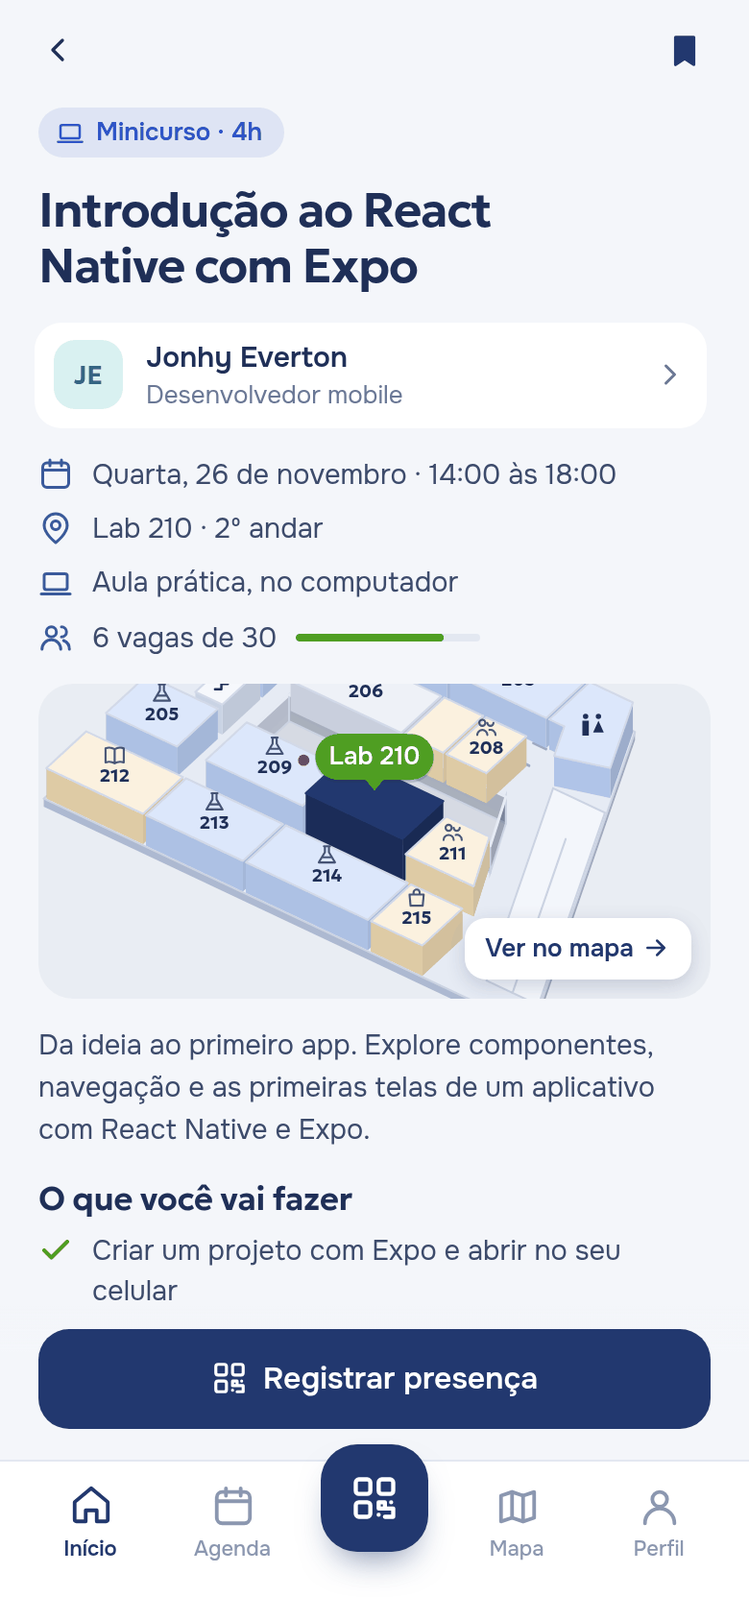
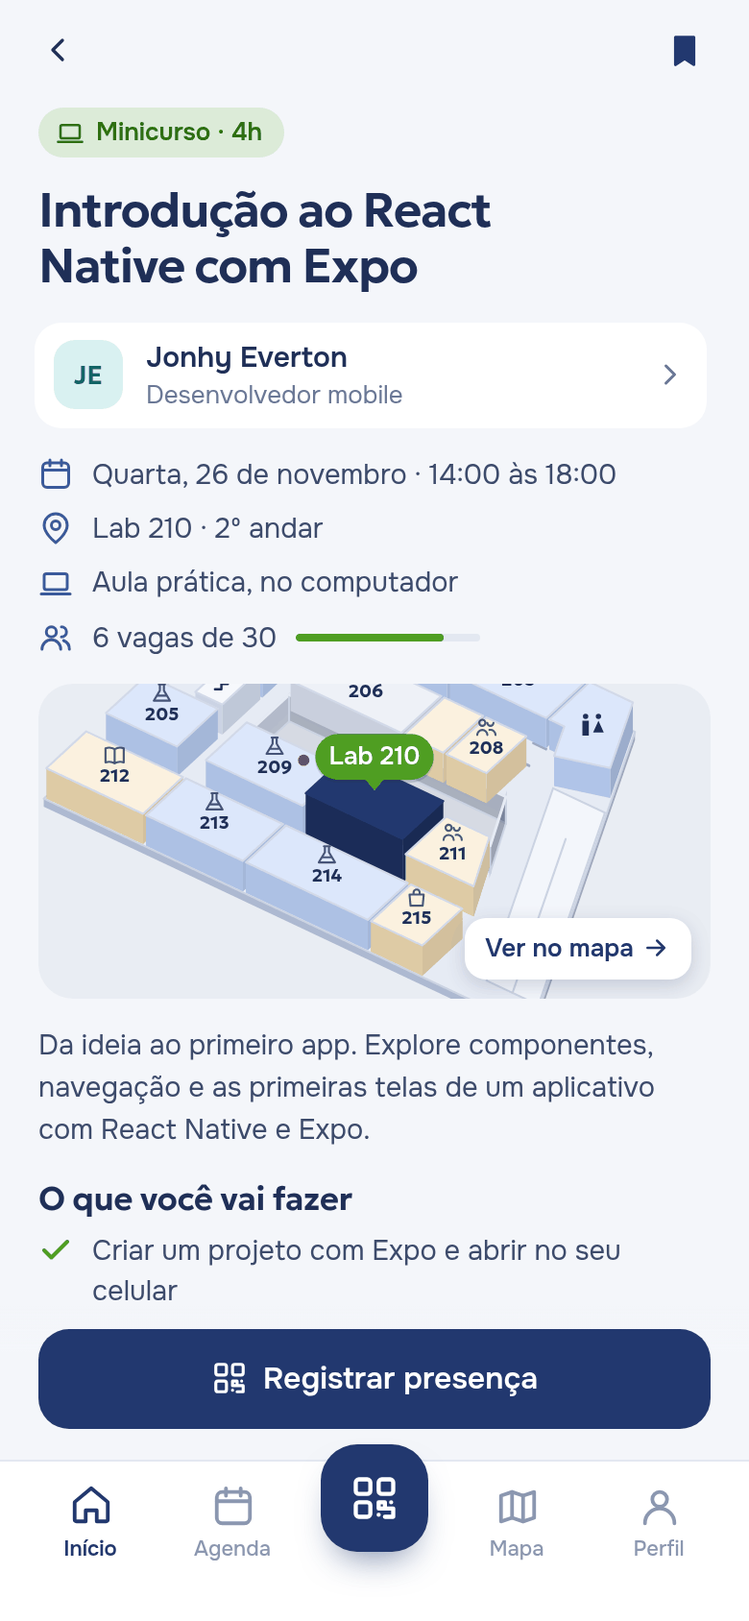
Agenda: cards limpos no padrão dos apps de evento
- Hexágono com o ícone do tipo no lugar do texto; uma linha só com quem e onde
- Cores dos hexágonos do logo do ETAL para cada tipo
- Selo só para vagas acabando ou esgotadas
- Campeonatos com a arte de cada jogo (banner do FIFA)

Changed region(s): [[0.0308, 0.0616, 0.4, 0.1232], [0.0923, 0.2156, 0.1231, 0.2464]]

diff --git a/index.html b/index.html
@@ -1889,47 +1889,76 @@ html.passeio-cheio .statusbar{height:0!important;padding:0}
   .overlay{top:env(safe-area-inset-top,0px)}
 }
 
-/* ---- Tipos de atividade (TIPOS em app.js): cada um com cor, card na agenda e bloco no detalhe ---- */
-.f-mesa,.tp-mesa{--tp:#d0651f}
-.f-camp,.tp-camp{--tp:#d6332c}
-.ag-kind .i{width:13px;height:13px;stroke-width:2.2}
-.ag-who{display:flex;align-items:center;gap:9px;margin-top:8px}
-.ag-who .ava{width:30px;height:30px;font-size:11px;flex:none}
-.ag-who b{display:block;font-size:13px;font-weight:600;color:var(--ink)}
-.ag-who small{display:block;font-size:12px;color:var(--muted)}
-.ag li.ag-pal,.ag li.ag-mesa{background:linear-gradient(135deg,color-mix(in srgb,var(--tp) 9%,var(--card)),var(--card) 62%)}
-.ag-rodada{display:flex;flex:none}
-.ag-rodada .ava{width:26px;height:26px;font-size:9.5px;letter-spacing:-.02em;margin-left:-5px;box-shadow:0 0 0 2px var(--card)}
-.ag-rodada .ava:first-child{margin-left:0}
-.ag-pratica{display:flex;align-items:center;flex-wrap:wrap;gap:6px 9px;margin-top:8px;font-size:12px;color:var(--muted)}
-.ag-pratica .seats{flex:0 0 56px;margin:0}
-.ag-pratica em{font-style:normal;display:inline-flex;align-items:center;gap:4px;font-weight:600;color:var(--tp);background:color-mix(in srgb,var(--tp) 11%,transparent);padding:2px 8px;border-radius:999px}
-.ag-pratica em .i{width:13px;height:13px}
-.ag li.ag-camp{align-items:center;gap:12px;padding:10px 12px 10px 10px;color:#fff;background:linear-gradient(120deg,#1a1d2e,#43151f);box-shadow:none}
-.ag li.ag-camp.mine{box-shadow:0 0 0 2px var(--tp)}
-.ag li.ag-camp.fifa{background:linear-gradient(120deg,#0b2a4a,#0e5a3c)}
-.ag-camp .ag-arte{width:56px;height:56px;border-radius:12px;background:rgba(255,255,255,.08);display:grid;place-items:center;flex:none;overflow:hidden}
-.ag-camp .ag-arte img{width:50px;height:auto}
-.ag-camp .ag-arte .i{width:26px;height:26px;color:#ffd27a}
-.ag-camp .ag-kind{color:#ffb4a8}
-.ag-camp.fifa .ag-kind{color:#9fe3b8}
-.ag-camp h4{color:#fff}
-.ag-camp p{color:rgba(255,255,255,.74)}
-.ag-camp .card-chev{color:rgba(255,255,255,.7);flex:none}
-.kind-tp{display:inline-flex;align-items:center;gap:6px;align-self:flex-start;color:var(--tp)!important;background:color-mix(in srgb,var(--tp) 11%,transparent);padding:4px 11px 4px 9px;border-radius:999px}
+/* ---- Tipos de atividade (TIPOS em app.js) ----
+   Cores dos hexágonos do logo do ETAL: azul, amarelo, verde e vermelho. --tp pinta o hexágono; --tp-ink é a mesma
+   cor escurecida para texto sobre fundo claro (contraste). Nada de cor solta fora daqui. */
+.tp-pal,.f-pal{--tp:#5d86dc;--tp-ink:#2f55b0}
+.tp-mesa,.f-mesa{--tp:#f2b230;--tp-ink:#8a5a00;--tp-on:#3d2a00}
+.tp-mini,.tp-ofi,.f-mini{--tp:#65b32e;--tp-ink:#2f6f12}
+.tp-camp,.f-camp{--tp:#d6332c;--tp-ink:#b02a24}
+.tp-out{--tp:#8793ab;--tp-ink:#5a6680}
+.ag-chips button i{background:var(--tp);border-radius:2px;width:9px;height:9px;clip-path:polygon(50% 0,100% 25%,100% 75%,50% 100%,0 75%,0 25%)}
+
+/* card de sessão */
+.ag li.ses{display:flex;align-items:flex-start;gap:12px;padding:13px 6px 13px 13px;background:var(--card);box-shadow:none;border-radius:calc(16px*var(--rk,1))}
+.ag li.ses.mine{box-shadow:0 0 0 1.5px color-mix(in srgb,var(--navy) 30%,transparent)}
+.ses-hex{position:relative;flex:none;width:34px;height:34px;display:grid;place-items:center;margin-top:1px}
+.ses-hex svg{position:absolute;inset:0;width:100%;height:100%;fill:var(--tp)}
+.ses-hex .i{position:relative;width:16px;height:16px;color:var(--tp-on,#fff);stroke-width:2.2}
+.ses-tx{flex:1;min-width:0;display:flex;flex-direction:column;gap:7px}
+.ag .ses h4{margin:0;font:600 15.5px/1.28 var(--display);letter-spacing:-.01em;display:-webkit-box;-webkit-line-clamp:2;-webkit-box-orient:vertical;overflow:hidden}
+.ag .ses-meta{display:flex;align-items:center;gap:7px;margin:0;font-size:12.5px;color:var(--muted);min-width:0}
+.ses-meta .ava{width:22px;height:22px;font-size:9px;border-radius:7px;flex:none}
+.ses-quem{white-space:nowrap;overflow:hidden;text-overflow:ellipsis;color:var(--ink-2);font-weight:500}
+.ses-onde{flex:0 1 auto;max-width:55%;min-width:0;white-space:nowrap;overflow:hidden;text-overflow:ellipsis}
+.ses-quem{flex:0 100 auto;min-width:3.5em}
+.ag-trilho .slot{grid-template-columns:44px minmax(0,1fr)}
+.ag li.ses,.ag li.ses-camp{min-width:0}
+.ses-quem + .ses-onde::before{content:"·";margin-right:6px}
+.ses-rostos{display:flex;flex:none}
+.ses-rostos .ava{margin-left:-6px;box-shadow:0 0 0 2px var(--card)}
+.ses-rostos .ava:first-child{margin-left:0}
+.ses-selo{align-self:flex-start;display:inline-flex;align-items:center;gap:5px;font-size:11px;font-weight:700;padding:2px 8px;border-radius:999px}
+.ses-selo.agora{background:var(--green-50);color:var(--green-ink)}
+.ses-selo.agora i{width:6px;height:6px;border-radius:50%;background:currentColor;animation:sesPulso 1.6s ease-in-out infinite}
+.ses-selo.pouca{background:#fff1d6;color:#8a5200}
+.ses-selo.cheio{background:var(--line);color:var(--muted)}
+@keyframes sesPulso{50%{opacity:.25}}
+@media(prefers-reduced-motion:reduce){.ses-selo.agora i{animation:none}}
+.ag .ses .bm{margin-top:-4px}
+
+/* campeonato: a arte do jogo é o card */
+.ag li.ses-camp{position:relative;display:block;height:104px;padding:0;border-radius:calc(16px*var(--rk,1));overflow:hidden;color:#fff;isolation:isolate;box-shadow:none;cursor:pointer}
+.ses-camp .art{position:absolute;inset:0;width:100%;height:100%;object-fit:cover;z-index:-1}
+.ses-camp .art-scrim{background:linear-gradient(90deg,rgba(6,8,20,.72) 0%,rgba(6,8,20,.15) 70%)}
+.ses-camp-tx{position:absolute;left:14px;right:14px;top:12px;bottom:12px;display:flex;flex-direction:column;justify-content:space-between;align-items:flex-start}
+.ses-camp-tx small{margin-top:auto}
+.ses-camp-tx .p-logo{height:30px;width:auto;max-width:132px;object-fit:contain;object-position:left}
+.ses-camp-tx .p-name{font:800 24px/1 var(--display);letter-spacing:-.02em}
+.ses-camp-tx small{font-size:12px;font-weight:600;opacity:.9}
+.ses-camp-chip{position:absolute;right:10px;top:10px}
+.ses-camp-chip .t-chip{font-size:11px;padding:4px 9px}
+
+/* pausas (credenciamento, intervalo, almoço): uma linha discreta */
+.ag li.ses-pausa{display:flex;align-items:baseline;gap:8px;padding:4px 4px 4px 2px;background:none;box-shadow:none;font-size:13.5px;color:var(--ink-2)}
+.ses-pausa small{font-size:12px;color:var(--muted)}
+
+/* detalhe da atividade */
+.kind-tp{display:inline-flex;align-items:center;gap:6px;align-self:flex-start;color:var(--tp-ink)!important;background:color-mix(in srgb,var(--tp) 16%,transparent);padding:4px 11px 4px 9px;border-radius:999px}
 .kind-tp .i{width:15px;height:15px}
-.teacher.quem-fala{padding:14px;background:linear-gradient(135deg,color-mix(in srgb,#8a4fd0 12%,var(--card)),var(--card))}
-.teacher.quem-fala small:first-child{font-size:10.5px;text-transform:uppercase;letter-spacing:.07em;font-weight:700;color:#8a4fd0}
+.teacher.quem-fala{padding:14px;background:var(--card);box-shadow:inset 0 0 0 1.5px color-mix(in srgb,#5d86dc 35%,transparent)}
+.teacher.quem-fala small:first-child{font-size:10.5px;text-transform:uppercase;letter-spacing:.07em;font-weight:700;color:#2f55b0}
 .teacher.quem-fala b{display:block;font-size:17px}
 .roda ul{list-style:none;margin:8px 0 0;padding:0;display:grid;gap:8px}
 .roda li{display:flex;align-items:center;gap:10px;background:var(--card);padding:9px 11px;border-radius:calc(14px*var(--rk,1))}
-.roda li:first-child{box-shadow:inset 3px 0 0 #d0651f}
+.roda li:first-child{box-shadow:inset 3px 0 0 #f2b230}
 .roda b{display:block;font-size:14px}
 .roda small{display:block;font-size:12.5px;color:var(--muted)}
-.levar{display:flex;gap:11px;align-items:flex-start;padding:12px 14px;border-radius:calc(14px*var(--rk,1));background:color-mix(in srgb,#2f55c8 8%,var(--card));color:var(--ink-2)}
-.levar .i{width:20px;height:20px;color:#2f55c8;flex:none;margin-top:2px}
+.levar{display:flex;gap:11px;align-items:flex-start;padding:12px 14px;border-radius:calc(14px*var(--rk,1));background:color-mix(in srgb,#65b32e 10%,var(--card));color:var(--ink-2)}
+.levar .i{width:20px;height:20px;color:#2f6f12;flex:none;margin-top:2px}
 .levar b{display:block;font-size:14px;color:var(--ink)}
 .levar small{font-size:13px}
+@media (prefers-color-scheme:dark){.ses-selo.pouca{background:#3a2c12;color:#ffd27a}}
 
 </style>
 <script>/* config.js */
@@ -5765,17 +5794,24 @@ window.DATA.placeOrder.splice(1, 0, 'obelisco');
 /* Cada tipo tem a sua cor (a mesma do filtro) e a fileira é curta: tipo e até que horas, título, quem e onde, vagas. */
     const tp = (k) => (TIPOS_G.has(k) ? k : 'out');
     const vagas = (s) => (!s.seats ? '' : s.taken >= s.seats ? '<span class="ag-vagas full">Lotado</span>' : `<span class="ag-vagas ${s.seats - s.taken <= 5 ? 'low' : ''}">${s.seats - s.taken} ${s.seats - s.taken === 1 ? 'vaga' : 'vagas'}</span>`);
-    /* um card por tipo: palestra destaca quem fala; mesa, quem conversa; minicurso e oficina, vagas e o que levar;
-       campeonato abre a chave, com a arte do jogo */
+    /* Card no padrão dos apps de evento (Whova, Sched, Google I/O): título forte, uma linha só com quem e onde, o
+       marcador à direita. O tipo aparece no hexágono colorido (as cores são as dos hexágonos do logo do ETAL), não em
+       texto; a legenda das cores são os filtros logo acima. Vagas só aparecem quando acabando ou esgotadas. */
     const bm = (s) => `<button class="bm ${S.saved.has(s.id) ? 'on' : ''}" data-act="save" data-id="${s.id}" aria-label="${S.saved.has(s.id) ? 'Remover dos salvos' : 'Salvar'}">${ic('bookmark')}</button>`;
-    const kind = (s) => { const t = tipoDe(s); return `<span class="ag-kind">${ic(t.icon)}${s.type}${duracao(s) ? ` · ${duracao(s)}` : ''}</span>`; };
-    const cls = (s) => `tp-${tipoDe(s).k} ${S.saved.has(s.id) ? 'mine' : ''} ${isNow(s) ? 'now' : ''}`;
+    const hexa = (s) => `<span class="ses-hex" role="img" aria-label="${s.type}"><svg viewBox="-20 -20 40 40" aria-hidden="true"><path d="M0-18.5 16-9.25v18.5L0 18.5-16 9.25v-18.5Z"/></svg>${ic(tipoDe(s).icon)}</span>`;
+    const selo = (s) => { /* "agora" já aparece na linha do tempo */ if (!s.seats) return ''; const n = s.seats - s.taken; return n <= 0 ? '<span class="ses-selo cheio">Esgotado</span>' : n <= 5 ? `<span class="ses-selo pouca">${n === 1 ? 'Última vaga' : `Últimas ${n}`}</span>` : ''; };
+    const rosto = (s) => { const ps = pessoasDe(s); return ps.length > 1 ? `<span class="ses-rostos">${ps.slice(0, 3).map((p) => spAv(p)).join('')}</span>` : spAv(s); };
+    const card = (s, quem) => `<li class="ses tp-${tipoDe(s).k} ${S.saved.has(s.id) ? 'mine' : ''}" ${goOf(s)}>${hexa(s)}<div class="ses-tx"><h4>${s.title}</h4><p class="ses-meta">${rosto(s)}${quem ? `<span class="ses-quem">${quem}</span>` : ''}<span class="ses-onde">${s.room}</span></p>${selo(s)}</div>${bm(s)}</li>`;
+    /* selo curto do campeonato: só o que importa para decidir (vagas, ao vivo, fim) */
+    const chipCurto = (stt) => { const [k, l] = window.TOUR.status(stt); const curto = (l.match(/\d+ vagas?/) || [l.split(' · ')[0]])[0]; return `<span class="t-chip ${k}">${k === 'live' ? '<i></i>' : ''}${curto}</span>`; };
     const CARDS = {
-      pal: (s) => `<li class="${cls(s)} ag-pal" ${goOf(s)}><div class="ag-tx">${kind(s)}<h4>${s.title}</h4><div class="ag-who">${spAv(s)}<span><b>${s.speakerShort}</b><small>${s.role} · ${s.room}</small></span></div></div><div class="ag-side">${bm(s)}${vagas(s)}</div></li>`,
-      mesa: (s) => { const ps = pessoasDe(s); return `<li class="${cls(s)} ag-mesa" ${goOf(s)}><div class="ag-tx">${kind(s)}<h4>${s.title}</h4><div class="ag-who"><span class="ag-rodada">${ps.slice(0, 4).map((p) => spAv(p)).join('')}</span><span><b>${s.speakerShort.split(' ')[0]} e mais ${ps.length - 1}</b><small>Mediação · ${s.room}</small></span></div></div><div class="ag-side">${bm(s)}${vagas(s)}</div></li>`; },
-      mini: (s) => `<li class="${cls(s)} ag-mini" ${goOf(s)}><div class="ag-tx">${kind(s)}<h4>${s.title}</h4><p>${s.speakerShort} · ${s.room}</p><div class="ag-pratica">${seatBar(s)}<span>${seatLine(s)}</span>${leva(s) ? `<em>${ic('laptop')}Leve notebook</em>` : ''}</div></div><div class="ag-side">${bm(s)}</div></li>`,
-      camp: (s) => { const t = D.tournaments.find((x) => x.id === s.tournament); if (!t) return CARDS.out(s); const n = tourSt(t).players.filter(Boolean).length; return `<li class="${cls(s)} ag-camp ${t.theme}" ${goOf(s)}><span class="ag-arte">${t.logo ? `<img src="${t.logo}" alt="">` : ic('trophy')}</span><div class="ag-tx">${kind(s)}<h4>${t.name}</h4><p>${t.format} · ${n} na chave · ${s.room}</p></div>${ic('chev', 'i card-chev')}</li>`; },
-      out: (s) => `<li class="ag-stop" ${goOf(s)}><div class="ag-tx"><h4>${s.title}</h4><p>${s.room}</p></div>${ic('chev', 'i card-chev')}</li>`,
+      pal: (s) => card(s, s.speakerShort),
+      mesa: (s) => card(s, ''), // os rostos já dizem quem conversa
+      mini: (s) => card(s, s.speakerShort),
+      /* campeonato: a arte do jogo (o banner do FIFA, a do Mortal Kombat) é o card */
+      camp: (s) => { const t = D.tournaments.find((x) => x.id === s.tournament); if (!t) return CARDS.out(s); const stt = tourSt(t); const me = tourMine(stt) >= 0;
+        return `<li class="ses-camp ${t.theme}" ${goOf(s)}>${gameArt(t)}<span class="ses-camp-tx">${titleOf(t)}<small>${s.room} · ${t.format}</small></span><span class="ses-camp-chip">${me ? `<span class="t-chip me">${ic('check')}Na chave</span>` : chipCurto(stt)}</span></li>`; },
+      out: (s) => `<li class="ses-pausa" ${goOf(s)}><span>${s.title}</span><small>${s.room}</small></li>`,
     };
     const row = (s) => (CARDS[tipoDe(s).g] || CARDS.out)(s);
     const agora = list.filter(isNow).length; const meus = D.sessions.filter((x) => x.day === day && S.saved.has(x.id)).length;

diff --git a/prototipo/app.css b/prototipo/app.css
@@ -1873,44 +1873,73 @@ html.passeio-cheio .statusbar{height:0!important;padding:0}
   .overlay{top:env(safe-area-inset-top,0px)}
 }
 
-/* ---- Tipos de atividade (TIPOS em app.js): cada um com cor, card na agenda e bloco no detalhe ---- */
-.f-mesa,.tp-mesa{--tp:#d0651f}
-.f-camp,.tp-camp{--tp:#d6332c}
-.ag-kind .i{width:13px;height:13px;stroke-width:2.2}
-.ag-who{display:flex;align-items:center;gap:9px;margin-top:8px}
-.ag-who .ava{width:30px;height:30px;font-size:11px;flex:none}
-.ag-who b{display:block;font-size:13px;font-weight:600;color:var(--ink)}
-.ag-who small{display:block;font-size:12px;color:var(--muted)}
-.ag li.ag-pal,.ag li.ag-mesa{background:linear-gradient(135deg,color-mix(in srgb,var(--tp) 9%,var(--card)),var(--card) 62%)}
-.ag-rodada{display:flex;flex:none}
-.ag-rodada .ava{width:26px;height:26px;font-size:9.5px;letter-spacing:-.02em;margin-left:-5px;box-shadow:0 0 0 2px var(--card)}
-.ag-rodada .ava:first-child{margin-left:0}
-.ag-pratica{display:flex;align-items:center;flex-wrap:wrap;gap:6px 9px;margin-top:8px;font-size:12px;color:var(--muted)}
-.ag-pratica .seats{flex:0 0 56px;margin:0}
-.ag-pratica em{font-style:normal;display:inline-flex;align-items:center;gap:4px;font-weight:600;color:var(--tp);background:color-mix(in srgb,var(--tp) 11%,transparent);padding:2px 8px;border-radius:999px}
-.ag-pratica em .i{width:13px;height:13px}
-.ag li.ag-camp{align-items:center;gap:12px;padding:10px 12px 10px 10px;color:#fff;background:linear-gradient(120deg,#1a1d2e,#43151f);box-shadow:none}
-.ag li.ag-camp.mine{box-shadow:0 0 0 2px var(--tp)}
-.ag li.ag-camp.fifa{background:linear-gradient(120deg,#0b2a4a,#0e5a3c)}
-.ag-camp .ag-arte{width:56px;height:56px;border-radius:12px;background:rgba(255,255,255,.08);display:grid;place-items:center;flex:none;overflow:hidden}
-.ag-camp .ag-arte img{width:50px;height:auto}
-.ag-camp .ag-arte .i{width:26px;height:26px;color:#ffd27a}
-.ag-camp .ag-kind{color:#ffb4a8}
-.ag-camp.fifa .ag-kind{color:#9fe3b8}
-.ag-camp h4{color:#fff}
-.ag-camp p{color:rgba(255,255,255,.74)}
-.ag-camp .card-chev{color:rgba(255,255,255,.7);flex:none}
-.kind-tp{display:inline-flex;align-items:center;gap:6px;align-self:flex-start;color:var(--tp)!important;background:color-mix(in srgb,var(--tp) 11%,transparent);padding:4px 11px 4px 9px;border-radius:999px}
+/* ---- Tipos de atividade (TIPOS em app.js) ----
+   Cores dos hexágonos do logo do ETAL: azul, amarelo, verde e vermelho. --tp pinta o hexágono; --tp-ink é a mesma
+   cor escurecida para texto sobre fundo claro (contraste). Nada de cor solta fora daqui. */
+.tp-pal,.f-pal{--tp:#5d86dc;--tp-ink:#2f55b0}
+.tp-mesa,.f-mesa{--tp:#f2b230;--tp-ink:#8a5a00;--tp-on:#3d2a00}
+.tp-mini,.tp-ofi,.f-mini{--tp:#65b32e;--tp-ink:#2f6f12}
+.tp-camp,.f-camp{--tp:#d6332c;--tp-ink:#b02a24}
+.tp-out{--tp:#8793ab;--tp-ink:#5a6680}
+.ag-chips button i{background:var(--tp);border-radius:2px;width:9px;height:9px;clip-path:polygon(50% 0,100% 25%,100% 75%,50% 100%,0 75%,0 25%)}
+
+/* card de sessão */
+.ag li.ses{display:flex;align-items:flex-start;gap:12px;padding:13px 6px 13px 13px;background:var(--card);box-shadow:none;border-radius:calc(16px*var(--rk,1))}
+.ag li.ses.mine{box-shadow:0 0 0 1.5px color-mix(in srgb,var(--navy) 30%,transparent)}
+.ses-hex{position:relative;flex:none;width:34px;height:34px;display:grid;place-items:center;margin-top:1px}
+.ses-hex svg{position:absolute;inset:0;width:100%;height:100%;fill:var(--tp)}
+.ses-hex .i{position:relative;width:16px;height:16px;color:var(--tp-on,#fff);stroke-width:2.2}
+.ses-tx{flex:1;min-width:0;display:flex;flex-direction:column;gap:7px}
+.ag .ses h4{margin:0;font:600 15.5px/1.28 var(--display);letter-spacing:-.01em;display:-webkit-box;-webkit-line-clamp:2;-webkit-box-orient:vertical;overflow:hidden}
+.ag .ses-meta{display:flex;align-items:center;gap:7px;margin:0;font-size:12.5px;color:var(--muted);min-width:0}
+.ses-meta .ava{width:22px;height:22px;font-size:9px;border-radius:7px;flex:none}
+.ses-quem{white-space:nowrap;overflow:hidden;text-overflow:ellipsis;color:var(--ink-2);font-weight:500}
+.ses-onde{flex:0 1 auto;max-width:55%;min-width:0;white-space:nowrap;overflow:hidden;text-overflow:ellipsis}
+.ses-quem{flex:0 100 auto;min-width:3.5em}
+.ag-trilho .slot{grid-template-columns:44px minmax(0,1fr)}
+.ag li.ses,.ag li.ses-camp{min-width:0}
+.ses-quem + .ses-onde::before{content:"·";margin-right:6px}
+.ses-rostos{display:flex;flex:none}
+.ses-rostos .ava{margin-left:-6px;box-shadow:0 0 0 2px var(--card)}
+.ses-rostos .ava:first-child{margin-left:0}
+.ses-selo{align-self:flex-start;display:inline-flex;align-items:center;gap:5px;font-size:11px;font-weight:700;padding:2px 8px;border-radius:999px}
+.ses-selo.agora{background:var(--green-50);color:var(--green-ink)}
+.ses-selo.agora i{width:6px;height:6px;border-radius:50%;background:currentColor;animation:sesPulso 1.6s ease-in-out infinite}
+.ses-selo.pouca{background:#fff1d6;color:#8a5200}
+.ses-selo.cheio{background:var(--line);color:var(--muted)}
+@keyframes sesPulso{50%{opacity:.25}}
+@media(prefers-reduced-motion:reduce){.ses-selo.agora i{animation:none}}
+.ag .ses .bm{margin-top:-4px}
+
+/* campeonato: a arte do jogo é o card */
+.ag li.ses-camp{position:relative;display:block;height:104px;padding:0;border-radius:calc(16px*var(--rk,1));overflow:hidden;color:#fff;isolation:isolate;box-shadow:none;cursor:pointer}
+.ses-camp .art{position:absolute;inset:0;width:100%;height:100%;object-fit:cover;z-index:-1}
+.ses-camp .art-scrim{background:linear-gradient(90deg,rgba(6,8,20,.72) 0%,rgba(6,8,20,.15) 70%)}
+.ses-camp-tx{position:absolute;left:14px;right:14px;top:12px;bottom:12px;display:flex;flex-direction:column;justify-content:space-between;align-items:flex-start}
+.ses-camp-tx small{margin-top:auto}
+.ses-camp-tx .p-logo{height:30px;width:auto;max-width:132px;object-fit:contain;object-position:left}
+.ses-camp-tx .p-name{font:800 24px/1 var(--display);letter-spacing:-.02em}
+.ses-camp-tx small{font-size:12px;font-weight:600;opacity:.9}
+.ses-camp-chip{position:absolute;right:10px;top:10px}
+.ses-camp-chip .t-chip{font-size:11px;padding:4px 9px}
+
+/* pausas (credenciamento, intervalo, almoço): uma linha discreta */
+.ag li.ses-pausa{display:flex;align-items:baseline;gap:8px;padding:4px 4px 4px 2px;background:none;box-shadow:none;font-size:13.5px;color:var(--ink-2)}
+.ses-pausa small{font-size:12px;color:var(--muted)}
+
+/* detalhe da atividade */
+.kind-tp{display:inline-flex;align-items:center;gap:6px;align-self:flex-start;color:var(--tp-ink)!important;background:color-mix(in srgb,var(--tp) 16%,transparent);padding:4px 11px 4px 9px;border-radius:999px}
 .kind-tp .i{width:15px;height:15px}
-.teacher.quem-fala{padding:14px;background:linear-gradient(135deg,color-mix(in srgb,#8a4fd0 12%,var(--card)),var(--card))}
-.teacher.quem-fala small:first-child{font-size:10.5px;text-transform:uppercase;letter-spacing:.07em;font-weight:700;color:#8a4fd0}
+.teacher.quem-fala{padding:14px;background:var(--card);box-shadow:inset 0 0 0 1.5px color-mix(in srgb,#5d86dc 35%,transparent)}
+.teacher.quem-fala small:first-child{font-size:10.5px;text-transform:uppercase;letter-spacing:.07em;font-weight:700;color:#2f55b0}
 .teacher.quem-fala b{display:block;font-size:17px}
 .roda ul{list-style:none;margin:8px 0 0;padding:0;display:grid;gap:8px}
 .roda li{display:flex;align-items:center;gap:10px;background:var(--card);padding:9px 11px;border-radius:calc(14px*var(--rk,1))}
-.roda li:first-child{box-shadow:inset 3px 0 0 #d0651f}
+.roda li:first-child{box-shadow:inset 3px 0 0 #f2b230}
 .roda b{display:block;font-size:14px}
 .roda small{display:block;font-size:12.5px;color:var(--muted)}
-.levar{display:flex;gap:11px;align-items:flex-start;padding:12px 14px;border-radius:calc(14px*var(--rk,1));background:color-mix(in srgb,#2f55c8 8%,var(--card));color:var(--ink-2)}
-.levar .i{width:20px;height:20px;color:#2f55c8;flex:none;margin-top:2px}
+.levar{display:flex;gap:11px;align-items:flex-start;padding:12px 14px;border-radius:calc(14px*var(--rk,1));background:color-mix(in srgb,#65b32e 10%,var(--card));color:var(--ink-2)}
+.levar .i{width:20px;height:20px;color:#2f6f12;flex:none;margin-top:2px}
 .levar b{display:block;font-size:14px;color:var(--ink)}
 .levar small{font-size:13px}
+@media (prefers-color-scheme:dark){.ses-selo.pouca{background:#3a2c12;color:#ffd27a}}

diff --git a/prototipo/app.js b/prototipo/app.js
@@ -642,17 +642,24 @@
 /* Cada tipo tem a sua cor (a mesma do filtro) e a fileira é curta: tipo e até que horas, título, quem e onde, vagas. */
     const tp = (k) => (TIPOS_G.has(k) ? k : 'out');
     const vagas = (s) => (!s.seats ? '' : s.taken >= s.seats ? '<span class="ag-vagas full">Lotado</span>' : `<span class="ag-vagas ${s.seats - s.taken <= 5 ? 'low' : ''}">${s.seats - s.taken} ${s.seats - s.taken === 1 ? 'vaga' : 'vagas'}</span>`);
-    /* um card por tipo: palestra destaca quem fala; mesa, quem conversa; minicurso e oficina, vagas e o que levar;
-       campeonato abre a chave, com a arte do jogo */
+    /* Card no padrão dos apps de evento (Whova, Sched, Google I/O): título forte, uma linha só com quem e onde, o
+       marcador à direita. O tipo aparece no hexágono colorido (as cores são as dos hexágonos do logo do ETAL), não em
+       texto; a legenda das cores são os filtros logo acima. Vagas só aparecem quando acabando ou esgotadas. */
     const bm = (s) => `<button class="bm ${S.saved.has(s.id) ? 'on' : ''}" data-act="save" data-id="${s.id}" aria-label="${S.saved.has(s.id) ? 'Remover dos salvos' : 'Salvar'}">${ic('bookmark')}</button>`;
-    const kind = (s) => { const t = tipoDe(s); return `<span class="ag-kind">${ic(t.icon)}${s.type}${duracao(s) ? ` · ${duracao(s)}` : ''}</span>`; };
-    const cls = (s) => `tp-${tipoDe(s).k} ${S.saved.has(s.id) ? 'mine' : ''} ${isNow(s) ? 'now' : ''}`;
+    const hexa = (s) => `<span class="ses-hex" role="img" aria-label="${s.type}"><svg viewBox="-20 -20 40 40" aria-hidden="true"><path d="M0-18.5 16-9.25v18.5L0 18.5-16 9.25v-18.5Z"/></svg>${ic(tipoDe(s).icon)}</span>`;
+    const selo = (s) => { /* "agora" já aparece na linha do tempo */ if (!s.seats) return ''; const n = s.seats - s.taken; return n <= 0 ? '<span class="ses-selo cheio">Esgotado</span>' : n <= 5 ? `<span class="ses-selo pouca">${n === 1 ? 'Última vaga' : `Últimas ${n}`}</span>` : ''; };
+    const rosto = (s) => { const ps = pessoasDe(s); return ps.length > 1 ? `<span class="ses-rostos">${ps.slice(0, 3).map((p) => spAv(p)).join('')}</span>` : spAv(s); };
+    const card = (s, quem) => `<li class="ses tp-${tipoDe(s).k} ${S.saved.has(s.id) ? 'mine' : ''}" ${goOf(s)}>${hexa(s)}<div class="ses-tx"><h4>${s.title}</h4><p class="ses-meta">${rosto(s)}${quem ? `<span class="ses-quem">${quem}</span>` : ''}<span class="ses-onde">${s.room}</span></p>${selo(s)}</div>${bm(s)}</li>`;
+    /* selo curto do campeonato: só o que importa para decidir (vagas, ao vivo, fim) */
+    const chipCurto = (stt) => { const [k, l] = window.TOUR.status(stt); const curto = (l.match(/\d+ vagas?/) || [l.split(' · ')[0]])[0]; return `<span class="t-chip ${k}">${k === 'live' ? '<i></i>' : ''}${curto}</span>`; };
     const CARDS = {
-      pal: (s) => `<li class="${cls(s)} ag-pal" ${goOf(s)}><div class="ag-tx">${kind(s)}<h4>${s.title}</h4><div class="ag-who">${spAv(s)}<span><b>${s.speakerShort}</b><small>${s.role} · ${s.room}</small></span></div></div><div class="ag-side">${bm(s)}${vagas(s)}</div></li>`,
-      mesa: (s) => { const ps = pessoasDe(s); return `<li class="${cls(s)} ag-mesa" ${goOf(s)}><div class="ag-tx">${kind(s)}<h4>${s.title}</h4><div class="ag-who"><span class="ag-rodada">${ps.slice(0, 4).map((p) => spAv(p)).join('')}</span><span><b>${s.speakerShort.split(' ')[0]} e mais ${ps.length - 1}</b><small>Mediação · ${s.room}</small></span></div></div><div class="ag-side">${bm(s)}${vagas(s)}</div></li>`; },
-      mini: (s) => `<li class="${cls(s)} ag-mini" ${goOf(s)}><div class="ag-tx">${kind(s)}<h4>${s.title}</h4><p>${s.speakerShort} · ${s.room}</p><div class="ag-pratica">${seatBar(s)}<span>${seatLine(s)}</span>${leva(s) ? `<em>${ic('laptop')}Leve notebook</em>` : ''}</div></div><div class="ag-side">${bm(s)}</div></li>`,
-      camp: (s) => { const t = D.tournaments.find((x) => x.id === s.tournament); if (!t) return CARDS.out(s); const n = tourSt(t).players.filter(Boolean).length; return `<li class="${cls(s)} ag-camp ${t.theme}" ${goOf(s)}><span class="ag-arte">${t.logo ? `<img src="${t.logo}" alt="">` : ic('trophy')}</span><div class="ag-tx">${kind(s)}<h4>${t.name}</h4><p>${t.format} · ${n} na chave · ${s.room}</p></div>${ic('chev', 'i card-chev')}</li>`; },
-      out: (s) => `<li class="ag-stop" ${goOf(s)}><div class="ag-tx"><h4>${s.title}</h4><p>${s.room}</p></div>${ic('chev', 'i card-chev')}</li>`,
+      pal: (s) => card(s, s.speakerShort),
+      mesa: (s) => card(s, ''), // os rostos já dizem quem conversa
+      mini: (s) => card(s, s.speakerShort),
+      /* campeonato: a arte do jogo (o banner do FIFA, a do Mortal Kombat) é o card */
+      camp: (s) => { const t = D.tournaments.find((x) => x.id === s.tournament); if (!t) return CARDS.out(s); const stt = tourSt(t); const me = tourMine(stt) >= 0;
+        return `<li class="ses-camp ${t.theme}" ${goOf(s)}>${gameArt(t)}<span class="ses-camp-tx">${titleOf(t)}<small>${s.room} · ${t.format}</small></span><span class="ses-camp-chip">${me ? `<span class="t-chip me">${ic('check')}Na chave</span>` : chipCurto(stt)}</span></li>`; },
+      out: (s) => `<li class="ses-pausa" ${goOf(s)}><span>${s.title}</span><small>${s.room}</small></li>`,
     };
     const row = (s) => (CARDS[tipoDe(s).g] || CARDS.out)(s);
     const agora = list.filter(isNow).length; const meus = D.sessions.filter((x) => x.day === day && S.saved.has(x.id)).length;

diff --git a/prototipo/sw.js b/prototipo/sw.js
@@ -5,7 +5,7 @@
    - Login (api/): sempre pela rede, nunca guardado.
    A lista e a versão abaixo são geradas por scripts/build-pwa.py. */
 /* <gerado> */
-const VERSION = '14cc2babf7';
+const VERSION = '00658f9a6e';
 const CORE = ["./", "index.html", "manifest.webmanifest", "config.js", "api.js", "vendor/jsQR.js", "app.js", "app.css", "data.js", "plan-data.js", "campus-data.js", "campus-fundo.js", "campus-limpo.js", "campus-entorno.js", "campus-verde.js", "sprites.js", "campus3d.js", "assets/banner-fifa.jpg", "assets/etal-logo.png", "assets/icon.svg", "assets/logo-mk.png", "assets/nadic-logo.svg", "assets/pwa/apple-touch-icon.png", "assets/pwa/icon-192.png", "assets/pwa/icon-512.png", "assets/pwa/maskable-512.png", "assets/sprites/cobble-color-dark.webp", "assets/sprites/cobble-color-light.webp", "assets/sprites/cobble-mono-dark.webp", "assets/sprites/cobble-mono-light.webp", "assets/sprites/houses-color-dark.webp", "assets/sprites/houses-color-light.webp", "assets/sprites/houses-mono-dark.webp", "assets/sprites/houses-mono-light.webp", "assets/sprites/ribs-color-dark.webp", "assets/sprites/ribs-color-light.webp", "assets/sprites/ribs-event-dark.webp", "assets/sprites/ribs-event-light.webp", "assets/sprites/ribs-mono-dark.webp", "assets/sprites/ribs-mono-light.webp", "assets/sprites/roof-color-dark.webp", "assets/sprites/roof-color-light.webp", "assets/sprites/roof-event-blue-dark.webp", "assets/sprites/roof-event-blue-light.webp", "assets/sprites/roof-event-dark.webp", "assets/sprites/roof-event-honey-dark.webp", "assets/sprites/roof-event-honey-light.webp", "assets/sprites/roof-event-light.webp", "assets/sprites/roof-mono-dark.webp", "assets/sprites/roof-mono-light.webp", "assets/sprites/telha-color-dark.webp", "assets/sprites/telha-color-light.webp", "assets/sprites/telha-mono-dark.webp", "assets/sprites/telha-mono-light.webp", "assets/sprites/trees-color-dark.webp", "assets/sprites/trees-color-light.webp", "assets/sprites/trees-mono-dark.webp", "assets/sprites/trees-mono-light.webp", "assets/sprites/wall-color-dark.webp", "assets/sprites/wall-color-light.webp", "assets/sprites/wall-event-blue-dark.webp", "assets/sprites/wall-event-blue-light.webp", "assets/sprites/wall-event-dark.webp", "assets/sprites/wall-event-honey-dark.webp", "assets/sprites/wall-event-honey-light.webp", "assets/sprites/wall-event-light.webp", "assets/sprites/wall-mono-dark.webp", "assets/sprites/wall-mono-light.webp", "assets/suap-logo.svg", "mapa3d/assets/modelos/plant_bushDetailed.glb", "mapa3d/assets/modelos/plant_bushLarge.glb", "mapa3d/assets/modelos/tree_default.glb", "mapa3d/assets/modelos/tree_detailed.glb", "mapa3d/assets/modelos/tree_fat.glb", "mapa3d/assets/modelos/tree_oak.glb", "mapa3d/assets/modelos/tree_palmBend.glb", "mapa3d/assets/modelos/tree_palmDetailedShort.glb", "mapa3d/assets/modelos/tree_palmDetailedTall.glb", "mapa3d/assets/modelos/tree_palmTall.glb", "mapa3d/assets/modelos/tree_plateau.glb", "mapa3d/assets/sketchbook/boxman.glb", "mapa3d/assets/sketchbook/car.glb", "mapa3d/index.html", "mapa3d/src/abertura.js", "mapa3d/src/camera.js", "mapa3d/src/colisao.js", "mapa3d/src/dados.js", "mapa3d/src/detalhes.js", "mapa3d/src/entorno.js", "mapa3d/src/estilo.js", "mapa3d/src/geo.js", "mapa3d/src/interface.css", "mapa3d/src/interface.js", "mapa3d/src/interior.js", "mapa3d/src/main.js", "mapa3d/src/moveis.js", "mapa3d/src/palco.js", "mapa3d/src/passeio.js", "mapa3d/src/predios.js", "mapa3d/src/principal.js", "mapa3d/src/rotas.js", "mapa3d/src/subidas.js", "mapa3d/src/terreno.js", "mapa3d/src/texturas.js", "mapa3d/src/vegetacao.js", "mapa3d/src/viagem.js", "mapa3d/vendor/addons/controls/MapControls.js", "mapa3d/vendor/addons/controls/OrbitControls.js", "mapa3d/vendor/addons/loaders/GLTFLoader.js", "mapa3d/vendor/addons/utils/BufferGeometryUtils.js", "mapa3d/vendor/three.module.min.js"];
 /* </gerado> */
 const SHELL = `etal-app-${VERSION}`;

diff --git a/AGENTS.md b/AGENTS.md
@@ -23,7 +23,7 @@ Leia `DOCUMENTACAO.html`, `docs/contexto.html`, `docs/mapas.html` e `docs/proxim
 ## Protótipo (`prototipo/`)
 
 - Tela grande (11/11/2026): em computador (largura ≥ 1000 px e mouse) o app abre sem a moldura de celular, numa coluna à esquerda, com o mapa novo ocupando o resto da tela no modo Evento (`html.wide`, `telaGrande`, `#palco` em `app.js`). O botão "Ver como celular" (ou `?moldura`) volta para a moldura; a escolha fica em `etal-moldura`. Nesse modo a aba Mapa e "Como chegar" comandam o mapa ao lado (`palcoEnviar`). A regra "somente mockup do celular" passou a valer para o modo com moldura.
-- Tipos de atividade (11/11/2026): `TIPOS` em `app.js` define cor, ícone, card na agenda e bloco no detalhe de cada tipo. Palestra destaca quem fala (e já aceita perguntas); mesa-redonda mostra a roda (`guests` na programação, mediação primeiro); minicurso e oficina (mesmo filtro) mostram vagas, o que se faz e o que levar; campeonato é um card com a arte do jogo e abre a chave. Filtros da agenda por tipo (`g`). Tipo novo: uma linha em `TIPOS`, um card em `CARDS` (agenda) e, se precisar, um bloco no detalhe; o resto vira parada simples.
+- Tipos de atividade (11/11/2026, refeito a pedido do usuário, que achou a primeira versão feia e com texto demais): `TIPOS` em `app.js`. Card da agenda no padrão dos apps de evento: hexágono com o ícone do tipo, título (até 2 linhas), uma linha só com rosto, quem e sala, marcador à direita; selo só para vagas acabando/esgotadas (o "agora" fica na linha do tempo). Cores = hexágonos do logo do ETAL (palestra azul `#5d86dc`, mesa amarela `#f2b230`, minicurso/oficina verde `#65b32e`, campeonato vermelho `#d6332c`), em `.tp-*` com `--tp`/`--tp-ink` no `app.css`; não usar outras. Campeonato usa a arte do jogo (`gameArt`, banner do FIFA). Detalhe: palestra destaca quem fala e recebe perguntas; mesa mostra a roda (`guests`); minicurso, o que se faz e o que levar. Tipo novo: linha em `TIPOS` e, se precisar, um card em `CARDS`.
 - Home (11/11/2026): cenário em camadas em `skyline()`, atalhos em pílulas, seções com a classe `rv` entram ao rolar (`mountHome`). Colmeia: `comb()`, `combHex()`, `COMB_ICONS` (um desenho por conquista) e degradês em `combDefs()`.
 
 - Abrir com `prototipo/rodar.sh` (http://127.0.0.1:8770). Atalhos de teste: `?tela=`, `?qualidade=alta|media|simples`, `?tema=dark`, `?paleta=mel`.
